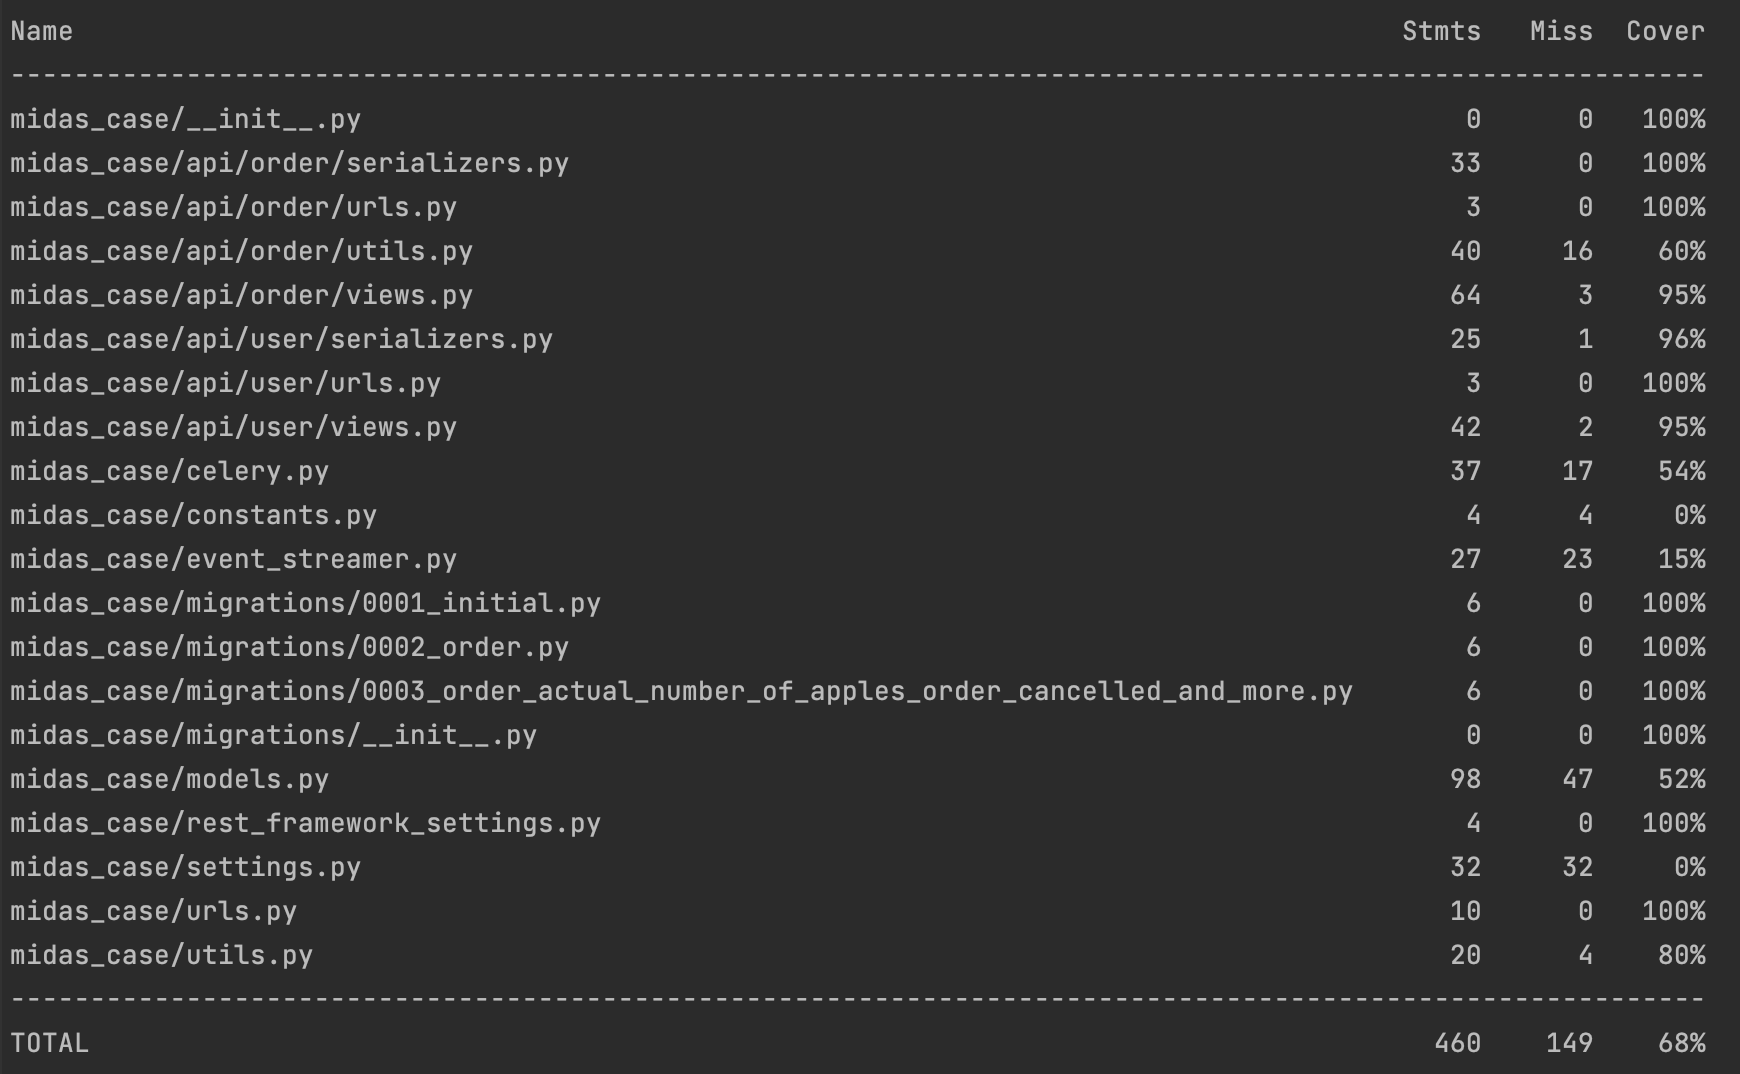
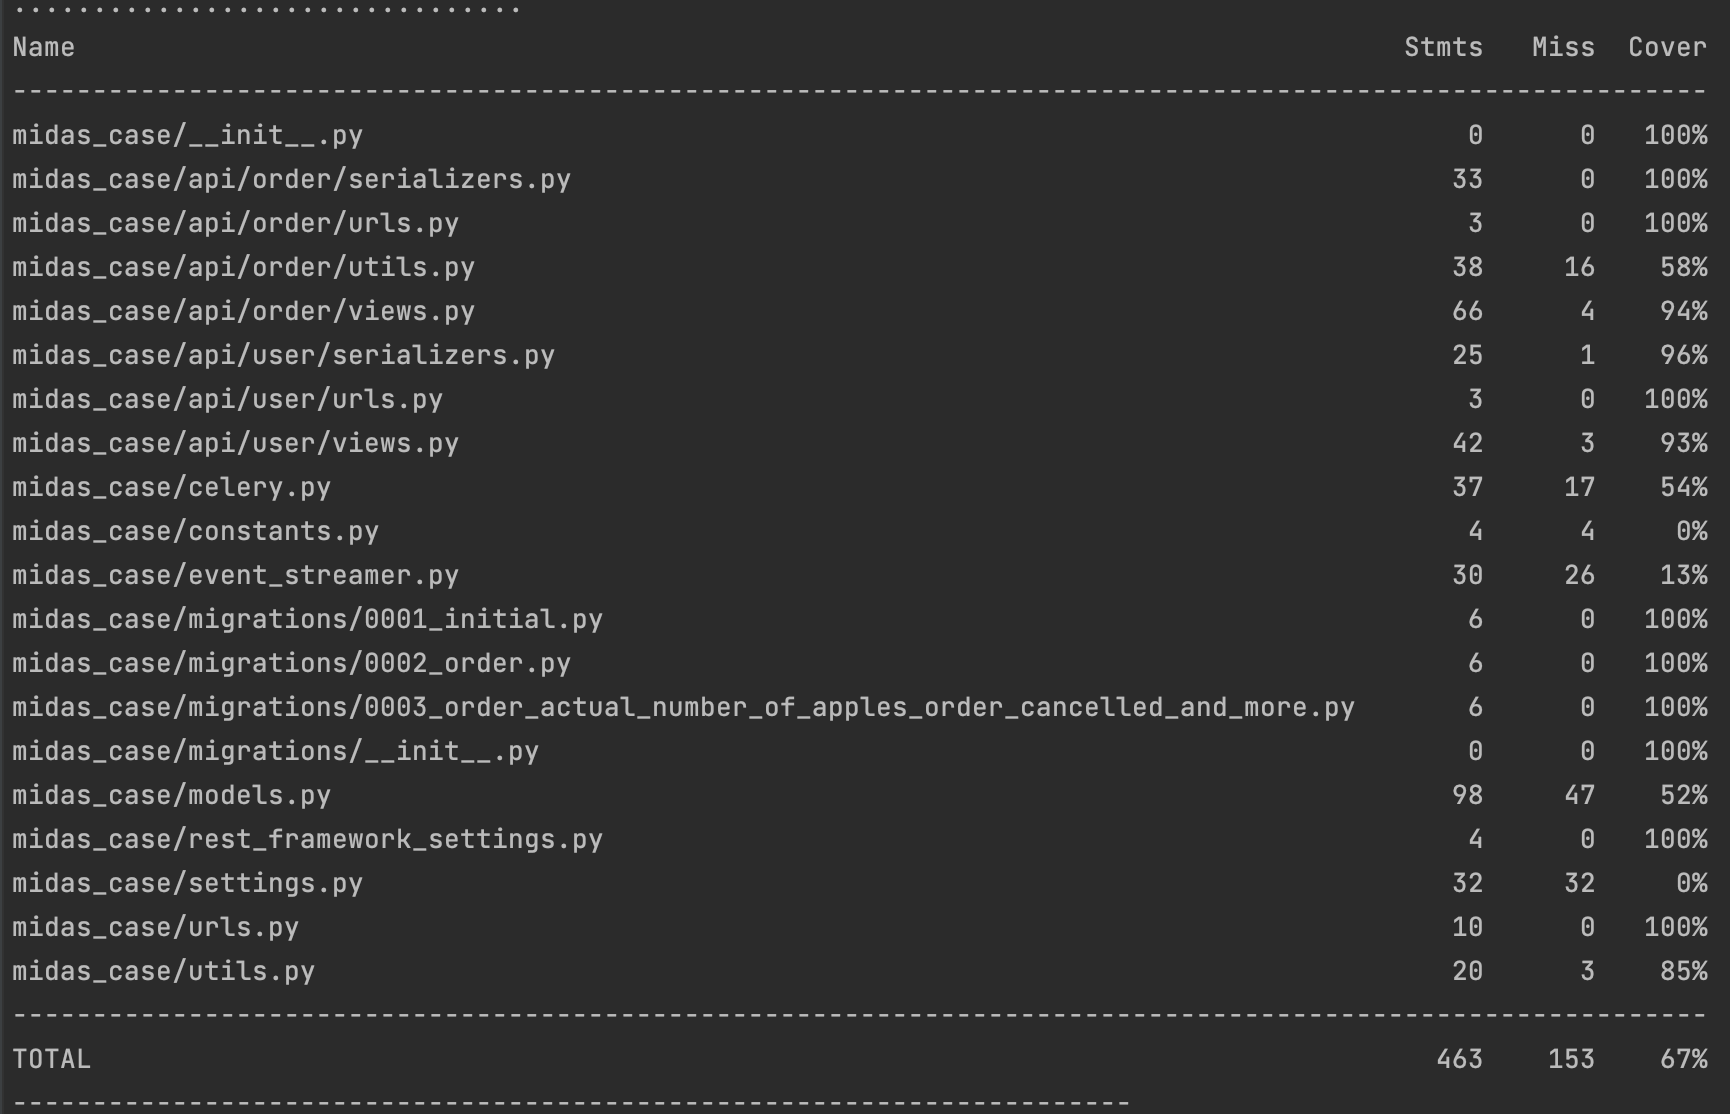
- tests - Minor fixes observed by tests

Changed region(s): [[0.0, 0.0, 0.9988, 1.0], [0.8428, 0.4302, 0.874, 0.5223], [0.8428, 0.2765, 0.874, 0.3687]]

diff --git a/midas_case/api/order/views.py b/midas_case/api/order/views.py
@@ -49,12 +49,15 @@ class Cancel(APIView):
             order = Order.objects.get(id=request.data["id"])
         except:
             return Response(status=status.HTTP_404_NOT_FOUND)
-        event_streamer = EventStreamer("cancel")
-        event_streamer.create_producer()
-        event_streamer.send_message({"id": str(order.id)})
-        buy.apply_async(args=[], serializer="json", eta=timezone.now() + timedelta(seconds=10))
-        cancel.apply_async(args=[], serializer="json", eta=timezone.now() + timedelta(seconds=10))
-        return Response(status=status.HTTP_202_ACCEPTED)
+        if order.user == request.user:
+            event_streamer = EventStreamer("cancel")
+            event_streamer.create_producer()
+            event_streamer.send_message({"id": str(order.id)})
+            buy.apply_async(args=[], serializer="json", eta=timezone.now() + timedelta(seconds=5))
+            cancel.apply_async(args=[], serializer="json", eta=timezone.now() + timedelta(seconds=5))
+            return Response(status=status.HTTP_202_ACCEPTED)
+        else:
+            return Response({'msg': 'Wrong user.'}, status=status.HTTP_403_FORBIDDEN)
 
 
 class RetrieveOrder(APIView):

diff --git a/midas_case/tests/views/order/test_views.py b/midas_case/tests/views/order/test_views.py
@@ -91,6 +91,36 @@ class OrderViewTests(TestCase):
 
         self.assertEqual(response.status_code, 202)
 
+    def test_forbidden_cancel_view(self):
+        request_body = {
+            "planned_number_of_apples": self.planned_number_of_apples,
+        }
+
+        response = self.client.post(
+            reverse('buy'),
+            json.dumps(request_body),
+            content_type='application/json'
+        )
+
+        self.assertEqual(response.status_code, 202)
+
+        request_body = {
+            "id": str(self.forbidden_order.id),
+        }
+
+        response = self.client.delete(
+            reverse('cancel'),
+            json.dumps(request_body),
+            content_type='application/json'
+        )
+
+        self.assertEqual(response.status_code, 403)
+
+        json_string = response.content
+        response_data = json.loads(json_string)
+
+        self.assertEqual(response_data["msg"], "Wrong user.")
+
     def test_retrieve_order_view(self):
         request_body = {
             "planned_number_of_apples": self.planned_number_of_apples,

diff --git a/midas_case/event_streamer.py b/midas_case/event_streamer.py
@@ -30,15 +30,19 @@ class EventStreamer:
 
     def process_messages(self, callback, message_count_to_process=None):
         i = 0
+        unsuccessful_messages = []
         for message in self.consumer:
             message = message.value
             result = callback(message)
             if result:
                 self.consumer.commit()
             else:
-                self.consumer.close()
-                break
-            if message_count_to_process and message_count_to_process == i:
-                self.consumer.close()
-                break
+                unsuccessful_messages.append(message)
+            if message_count_to_process and message_count_to_process <= i:
+                unsuccessful_messages.append(message)
             i += 1
+
+        self.consumer.close()
+        self.create_producer()
+        for message in unsuccessful_messages:
+            self.send_message(message)

diff --git a/midas_case/models.py b/midas_case/models.py
@@ -132,5 +132,5 @@ def produce_order_event(sender, instance, **kwargs):
         for i in range(instance.planned_number_of_apples):
             event_streamer.send_message({"id": str(instance.id)})
         if instance.type != BUY_ORDER or (instance.type == BUY_ORDER and get_remaining_apples() > 0):
-            buy.apply_async(args=[], serializer="json", eta=timezone.now() + timedelta(seconds=10))
-        sell.apply_async(args=[], serializer="json", eta=timezone.now() + timedelta(seconds=10))
+            buy.apply_async(args=[], serializer="json", eta=timezone.now() + timedelta(seconds=5))
+        sell.apply_async(args=[], serializer="json", eta=timezone.now() + timedelta(seconds=5))

diff --git a/midas_case/celery.py b/midas_case/celery.py
@@ -34,7 +34,7 @@ def sell():
     event_streamer = EventStreamer("sell")
     event_streamer.create_consumer()
     event_streamer.process_messages(sell_process)
-    buy.apply_async(args=[], serializer="json", eta=timezone.now() + timedelta(seconds=10))
+    buy.apply_async(args=[], serializer="json", eta=timezone.now() + timedelta(seconds=5))
     return True
 
 
